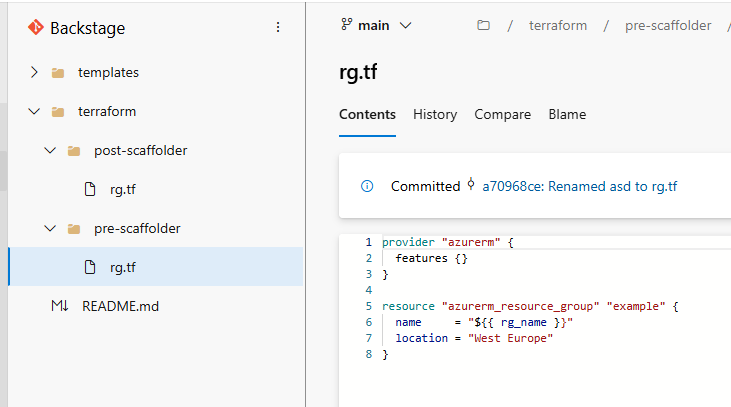
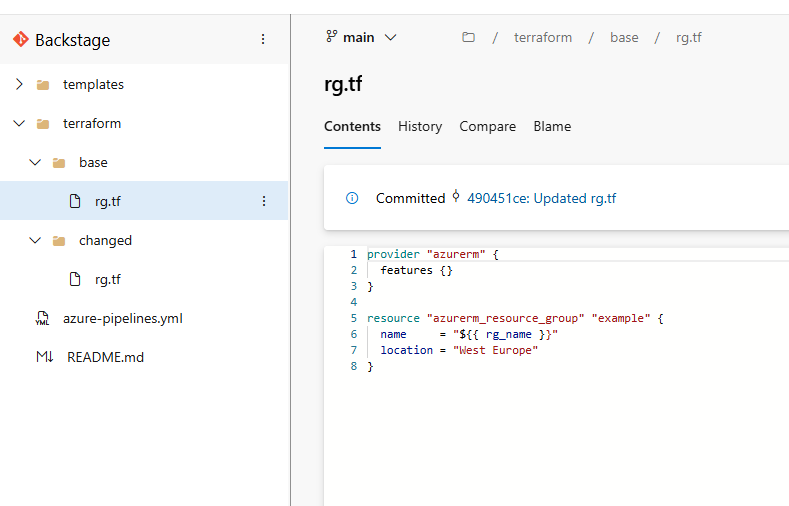
Final part.

diff --git a/_posts/pt-BR/2025-02-11-integrando-backstage-azure-devops-pt-BR.md b/_posts/pt-BR/2025-02-11-integrando-backstage-azure-devops-pt-BR.md
@@ -8,7 +8,7 @@ categories: [Backstage, DevOps, Cloud]
 tags: [Microsoft Entra ID, Autenticação, Identity Provider, Backstage]
 lang: pt-BR
 #canonical_url: "placeholder"
-image: assets/img/backstage-entraid/capa.png
+image: #assets/img/backstage-entraid/capa.png
 ---
  
 [Read in English](https://blog.lmeier.net/posts/authentication-backstage-entra-id-en)
@@ -25,26 +25,34 @@ Eu vou manter no meu GitHub um repositório do Backstage com o resultado destes 
 
 💡 **Nota**: Ter o Entra ID como IDP não é um pré-requisito para o funcionamento com o Azure DevOps. Porém, é comum que as duas soluções sejam usadas em ambiente Microsoft.
 
-Para este post, criei um projeto novo no Azure DevOps chamado Backstage, que é onde armazenaremos nosso template do Backstage, nosso código Terraform e onde criaremos a nossa pipeline.
+Para este post, criei um projeto novo no Azure DevOps chamado Backstage, que é onde armazenaremos nosso template do Backstage, nosso código Terraform e o arquivo yaml para criarmos a nossa pipeline.
 
 ⚠ **Atenção**: Assumirei que você já sabe como criar um projeto, repositório e usar o mínimo de git necessário.
 
-[Neste link](https://backstage.io/docs/integrations/azure/locations) você pode checar a documentação do Backstage para fazer esta integração. O Backstage suporta uso de identidade gerenciada, service principal e PAT. PAra o propósito do post, vou usar PAT por ser mais simples.
+[Neste link](https://backstage.io/docs/integrations/azure/locations) você pode checar a documentação do Backstage para fazer esta integração. O Backstage suporta uso de identidade gerenciada, service principal e PAT. Para o propósito do post, vou usar PAT por ser mais simples.
 
 
 ## Crie um PAT para uso
 
 Para criar o seu token, vá no campo superior direito do Azure DevOps e clique em **User settings** e depois em **Personal access tokens**:
-![alt text](assets/img/backstage-azure-devops/pat.png)
+
+![PAT](assets/img/backstage-azure-devops/pat.png)
+*PAT*
 
 Clique em **New Token**:
-![alt text](assets/img/backstage-azure-devops/new-token.png)
+
+![Novo token](assets/img/backstage-azure-devops/new-token.png)
+*Novo token*
 
 Dê um nome para o PAT e configure as permissões necessárias. Depois confirme a criação:
-![alt text](assets/img/backstage-azure-devops/pat-permissions.png)
+
+![Permissões do PAT](assets/img/backstage-azure-devops/pat-permissions.png)
+*Permissões do PAT*
 
 Copie o token e salve-o em algum lugar, pois você não poderá reavê-lo:
-![alt text](assets/img/backstage-azure-devops/pat-raw.png)
+
+![Criação co msucesso](assets/img/backstage-azure-devops/pat-raw.png)
+*Criação co msucesso*
 
 ## Configure o Backstage para usar o PAT
 
@@ -102,7 +110,7 @@ Cole a url do arquivo que acabamos de criar e vá selecione **Analyze**. Se a in
 *Validação do arquivo*
 
 ![Importando componente](assets/img/backstage-azure-devops/import.png)
-Importando componente
+*Importando componente*
 
 Clicando em **View Component** você será capaz de ver as informações do componente que acabou de importar, com o nome `test-lab`:
 ![Verificando componente criado](assets/img/backstage-azure-devops/view-component.png)
@@ -252,29 +260,31 @@ resource "azurerm_resource_group" "example" {
 
 ⚠ Eu não estou usando aqui uma conta de armazenamento para que você guarde o estado do seu Terraform! Para ambientes de produção, sugiro armazenar o estado em algum lugar seguro.
 
-Atenção para a variável `${{ rg_name }}`, pois ela será preeenchida pelo valor que vier do Backstage. Aqui estamos fazendo um exemplo bem simples, usando somente uma variável, mas extrapole essa ideia para qualquer código que você queira executar.
+Atenção para a variável `rg_name`, pois ela será preeenchida pelo valor que vier do Backstage. Aqui estamos fazendo um exemplo bem simples, usando somente uma variável, mas extrapole essa ideia para qualquer código que você queira executar.
 
 Uma vez criado o código terraform, vamos fazer o upload dele para o nosso repositório do Azure DevOps.
 
-💡 **Importante**: como a ideia é que o Backstage faça a tratativa deste arquivo e depois faça o upload e subsequente criação de um Pull Request de código, este (contendo a variável `${{ rg_name }}`) será substituído pelo valor que virá do Backstage, tornando o código **não-reutilizável**. Para evitar isso, vamos separar o código com a variável, que chamaremos de `base`, do código que terá a variável preenchida. Assim, sempre teremos um lugar com o código pronto para ser utilizado.
+💡 **Importante**: como a ideia é que o Backstage faça a tratativa deste arquivo e depois faça o upload e subsequente criação de um Pull Request de código, este (contendo a variável `rg_name`) será substituído pelo valor que virá do Backstage, tornando o código **não-reutilizável**. Para evitar isso, vamos separar o código com a variável, que chamaremos de `base`, do código que terá a variável preenchida, que chamaremos de `changed`, para facilitar. Assim, sempre teremos um lugar com o código pronto para ser utilizado.
 
 Abaixo segue a abordagem que entendo ser a mais simples, mas fique a vontade para adaptar à sua necessidade:
 
 ![Arquivos Terraform](assets/img/backstage-azure-devops/tf-files.png)
 *Arquivos Terraform*
 
-
 ## Crie a pipeline para execução do código
 
 Por último, vamos criar uma pipeline que será disparada cada vez que houver uma alteração no código. Isso só acontecerá quando alguém aprovar o pull request que o Backstage criará.
 
 
-### Crie uma conexão de serviço para que o Azure DevOps possa conectar-se à sua conta da Azure para deploy do componente a ser criado.
-1. no menu à esquerda, clique em **Service connections** e então clique em **Create service connection**. Então, no painel à direita, selecioneo tipo **Azure resource Manager**:
+### Crie uma conexão de serviço
+
+Uma conexão de serviço é obrigatória para que o Azure DevOps possa criar recursos na Azure.
+
+1. No menu à esquerda, clique em **Service connections** e então clique em **Create service connection**. Então, no painel à direita, selecioneo tipo **Azure resource Manager**:
 ![Criando conexão de serviço](assets/img/backstage-azure-devops/creating-svc-connection.png)
 *Criando conexão de serviço*
 
-2. você precisará se autenticar na Azure para autorizar a conexão. Siga o processo e preencha o panel à esquerda:
+2. Você precisará se autenticar na Azure para autorizar a conexão. Siga o processo e preencha o panel à esquerda:
 ![Configurando conexão](assets/img/backstage-azure-devops/configuring-svc-connection.png)
 *Configurando conexão*
 
@@ -283,7 +293,8 @@ Por último, vamos criar uma pipeline que será disparada cada vez que houver um
 *Conexão criada*
 
 
-### Crie a pipeline
+### Crie a pipeline no Azure DevOps
+
 1. Vá até o Azure DevOps, em Pipelines. Então clique em **Create Pipeline**:
 ![Criando pipeline](assets/img/backstage-azure-devops/create-pipeline.png)
 *Criando pipeline*
@@ -301,20 +312,13 @@ Por último, vamos criar uma pipeline que será disparada cada vez que houver um
 *Selecionando opção*
 
 5. Cole o yaml abaixo, subtituindo os valores necessários (mesmo que você não armazene o estado do terraform em algum lugar, você terá que informar estes dados para usar a ação `TerraformTaskV4@4`):
-```yaml
-# Starter pipeline
-# Start with a minimal pipeline that you can customize to build and deploy your code.
-# Add steps that build, run tests, deploy, and more:
-# https://aka.ms/yaml
 
+```yaml
 trigger:
 - main
 
 pool:
   vmImage: ubuntu-latest
-
-variables:
-  workingDirectory: terraform/post-scaffolder
 
 steps:
 - task: TerraformTaskV4@4
@@ -322,26 +326,52 @@ steps:
   inputs:
     provider: 'azurerm'
     command: 'init'
-    backendServiceArm: 'Azure'
-    backendAzureRmResourceGroupName: 'backstage'
-    backendAzureRmStorageAccountName: 'tfbackstage'
-    backendAzureRmContainerName: 'terraform'
-    backendAzureRmKey: 'backstage'
-    workingDirectory: $(workingDirectory)
-    
+    backendServiceArm: '<SERVICE_CONNECTION_NAME>'
+    backendAzureRmResourceGroupName: '<AZ_RG_NAME>'
+    backendAzureRmStorageAccountName: '<AZ_SA_NAME>'
+    backendAzureRmContainerName: '<AZ_SA_CONTAINER_NAME>'
+    backendAzureRmKey: '<AZ_KEY_NAME>'
+    workingDirectory: $(System.DefaultWorkingDirectory)/terraform/changed
 
 - task: TerraformTaskV4@4
   displayName: Terraform Validate
   inputs:
     provider: 'azurerm'
     command: 'validate'
-    workingDirectory: $(workingDirectory)
+    workingDirectory: $(System.DefaultWorkingDirectory)/terraform/changed
 
 - task: TerraformTaskV4@4
   displayName: Terraform Plan
   inputs:
     provider: 'azurerm'
     command: 'plan'
-    environmentServiceNameAzureRM: 'Azure'
-    workingDirectory: $(workingDirectory)
+    environmentServiceNameAzureRM: '<SERVICE_CONNECTION_NAME>'
+    workingDirectory: $(System.DefaultWorkingDirectory)/terraform/changed
+
+- task: TerraformTaskV4@4
+  displayName: Terraform Apply
+  inputs:
+    provider: 'azurerm'
+    command: 'apply'
+    workingDirectory: '$(System.DefaultWorkingDirectory)/terraform/changed'
+    environmentServiceNameAzureRM: '<SERVICE_CONNECTION_NAME>'
 ```
+
+## Teste final
+
+Bom, com tudo no lugar, agora podemos finalmente testar todo o nosso ambiente. Vá até o Backstage, clique em **Create...**, informe o nome do grupo de recursos que deseja criar e confirme. Isso deve fazer com que o Backstage baixe o código, adicione os dados que você informou e crie um pull-request lá no Azure DevOps, que você terá de aprovar. Uma vez aprovado, a pipeline deve ser executada automaticamente. Vamos ver isso acontecer?
+
+1. Vá até o template e coloque o nome que deseja para o grupo de recursos:
+
+![Nome do RG](assets/img/backstage-azure-devops/rg-from-backstage.png)
+*Nome do RG*
+
+2. Revise o que digitou:
+![Validando informações](assets/img/backstage-azure-devops/validating-name.png)
+*Validando informações*
+
+Aqui é interessante falar que fica muito a gosto do freguês o modelo de setup. Pode ser que a sua empresa prefira não ter aprovação. Ou pode ser que até queira ter mais de uma aprovação. Para todos estes cenários você deverá ajustar o ambiente à necessidade. O intuito aqui era mostrar o conceito e a forma de colocá-lo em prática.
+
+## Conclusão
+
+Neste post você apredneu como integrar o Backstage ao Azure DevOps e como montar um processo fim a fim, desde a solicitação do recurso até a criação dele no seu provedor de nuvem. Agora é contigo extrapolar o que viu aqui e aproveitar. Caso tenha dúvidas, deixe nos comentários.
